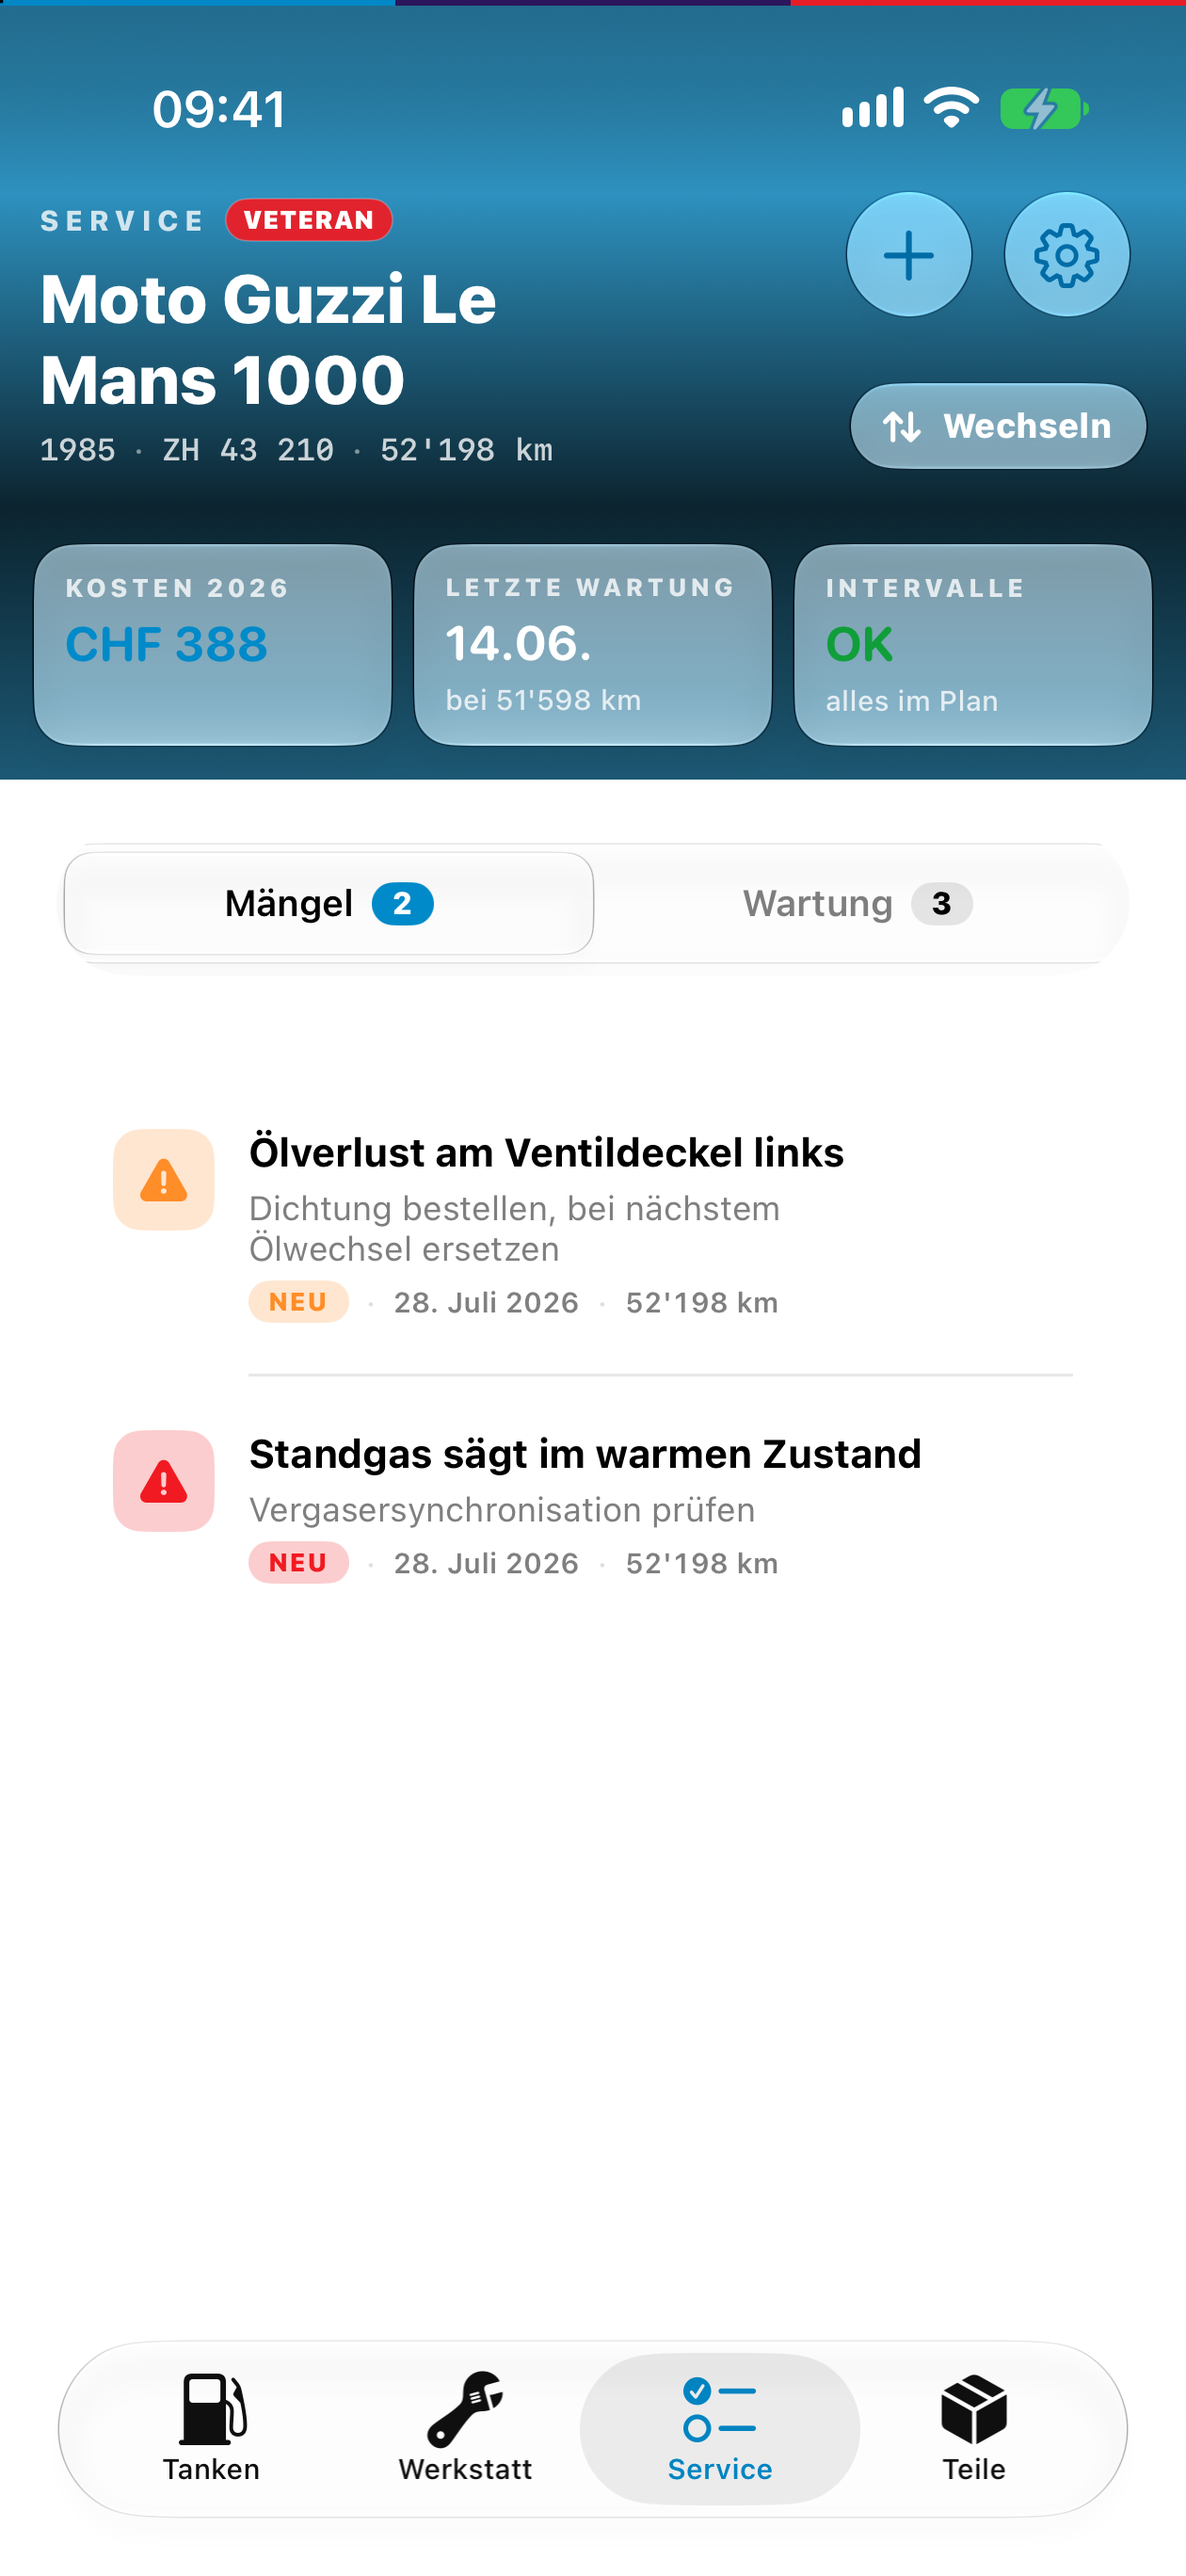
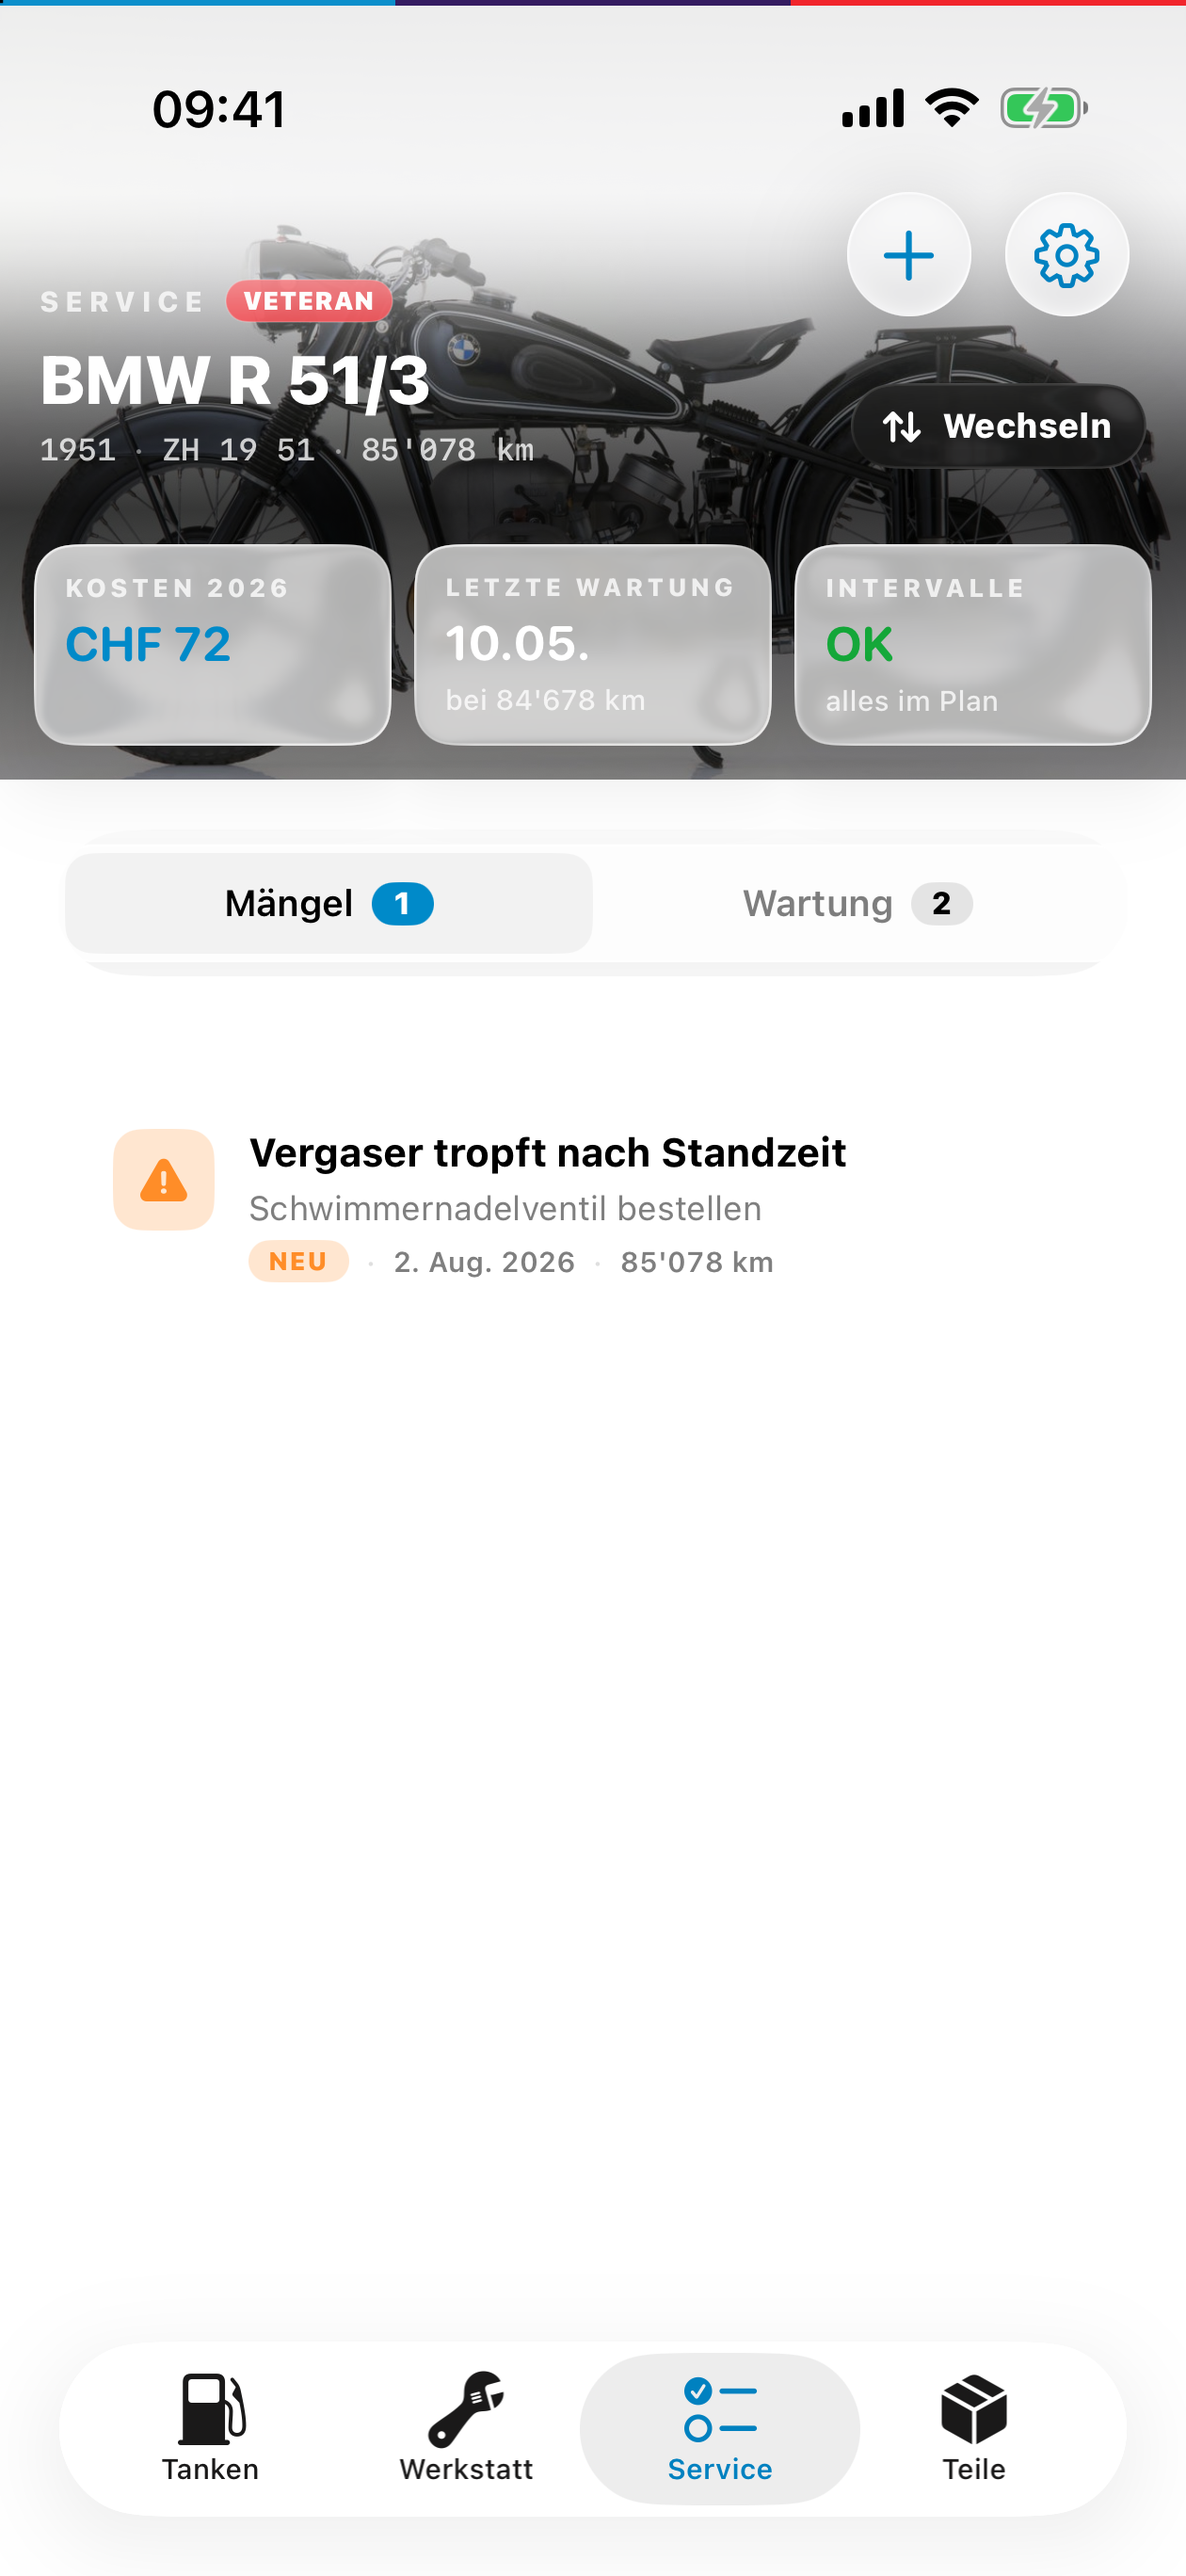
feat: shoot app store screenshots against the live demo server
make-screenshots.sh signs in to moto-api-demo.herrmann.ltd as the
admin-demo account instead of building and seeding a local scratch API —
the screenshots now show exactly what the public demo shows (BMW R 51/3
veteran garage). Server, user and password are overridable via
DEMO_SERVER_URL / DEMO_USER / DEMO_PASSWORD; seed-demo-data.py and the
API build/boot plumbing are gone. Regenerated all ten PNGs.

Claude-Session: https://claude.ai/code/session_01WE9Lc4Y1f6rDTcWxFb6ihc

diff --git a/RELEASING.md b/RELEASING.md
@@ -80,10 +80,11 @@ The store listing lives in the repo and is pushed by
 - **Screenshots** — `appstore/screenshots/de-DE/<DISPLAY_TYPE>/*.png`,
   uploaded in filename order, re-uploaded only when checksums change.
   Regenerate them locally with `scripts/make-screenshots.sh`: it builds the
-  app, seeds a throwaway local API with a demo garage
-  (`scripts/seed-demo-data.py`), drives the login and all four tabs on an
-  iPhone Air and iPad Pro 13-inch simulator via `idb`, and writes
-  pixel-exact PNGs (1260×2736 / 2064×2752). Review the images, commit.
+  app, signs in to the live demo server (`moto-api-demo.herrmann.ltd`,
+  `admin-demo` account — override via `DEMO_SERVER_URL`/`DEMO_USER`/
+  `DEMO_PASSWORD`), drives the login and all four tabs on an iPhone Air and
+  iPad Pro 13-inch simulator via `idb`, and writes pixel-exact PNGs
+  (1260×2736 / 2064×2752). Review the images, commit.
 
 Two one-time settings, both in the browser:
 

diff --git a/CLAUDE.md b/CLAUDE.md
@@ -81,7 +81,7 @@ New `.swift` files under `MotoManager/` are auto-included (Xcode 26 `PBXFileSyst
 
 ## App Store listing
 
-Repo-managed: metadata in `appstore/metadata/de-DE/`, screenshots in `appstore/screenshots/de-DE/<DISPLAY_TYPE>/`, pushed by `.github/workflows/appstore.yml` (`scripts/appstore_assets.py`). Screenshots are regenerated with `scripts/make-screenshots.sh` (seeded scratch API + idb-driven simulators — review the PNGs before committing). See RELEASING.md → "App Store listing".
+Repo-managed: metadata in `appstore/metadata/de-DE/`, screenshots in `appstore/screenshots/de-DE/<DISPLAY_TYPE>/`, pushed by `.github/workflows/appstore.yml` (`scripts/appstore_assets.py`). Screenshots are regenerated with `scripts/make-screenshots.sh` (signs in to the live demo server as `admin-demo` + idb-driven simulators — review the PNGs before committing). See RELEASING.md → "App Store listing".
 
 ## Conventions
 

diff --git a/AGENTS.md b/AGENTS.md
@@ -178,8 +178,8 @@ The store listing (description, keywords, screenshots) is repo-managed and
 pushed to App Store Connect by `.github/workflows/appstore.yml` →
 `scripts/appstore_assets.py`. Metadata: `appstore/metadata/de-DE/*.txt`.
 Screenshots: `appstore/screenshots/de-DE/<DISPLAY_TYPE>/*.png`, regenerated
-locally with `scripts/make-screenshots.sh` (builds the app, seeds a scratch
-API with `scripts/seed-demo-data.py`, drives both simulators via idb) —
+locally with `scripts/make-screenshots.sh` (builds the app, signs in to the
+live demo server as `admin-demo`, drives both simulators via idb) —
 always review the PNGs before committing. Details in RELEASING.md.
 
 ## Commit Messages — Conventional Commits (no scope)
